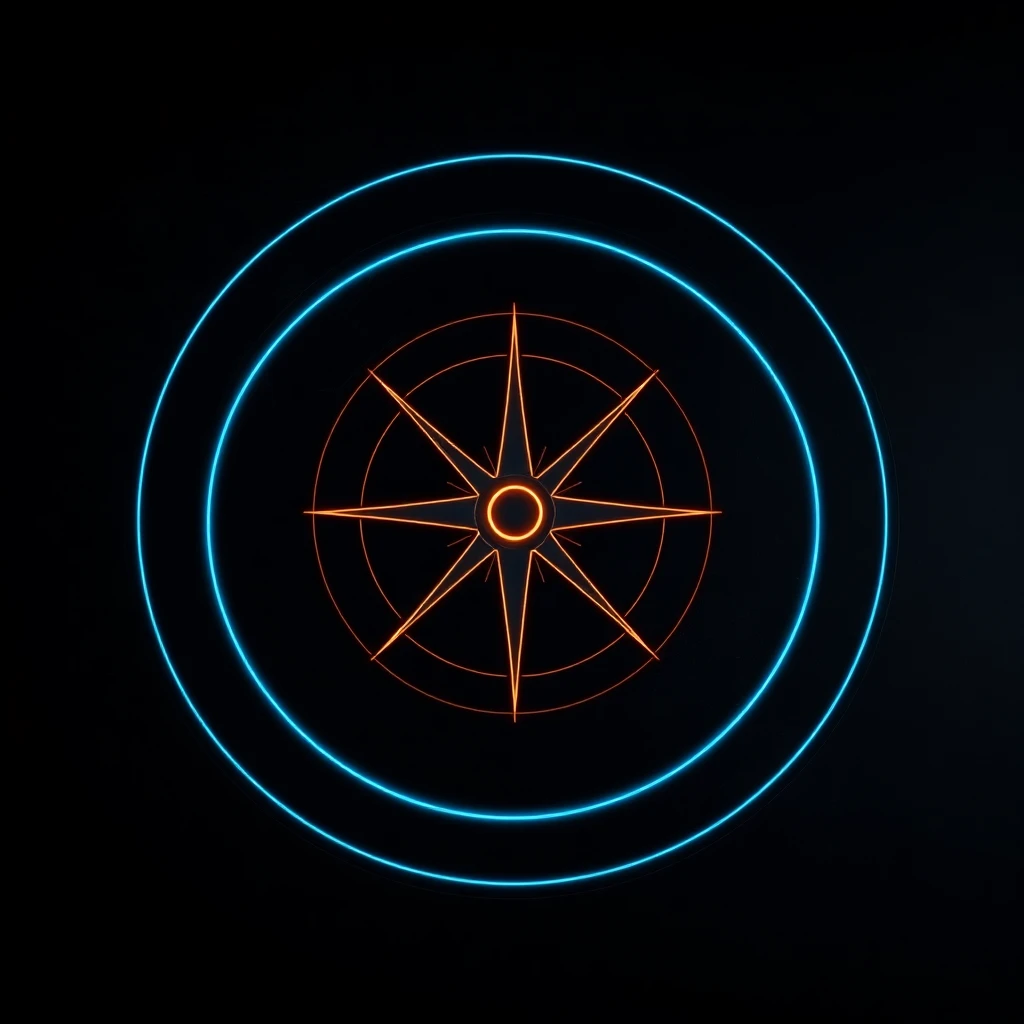
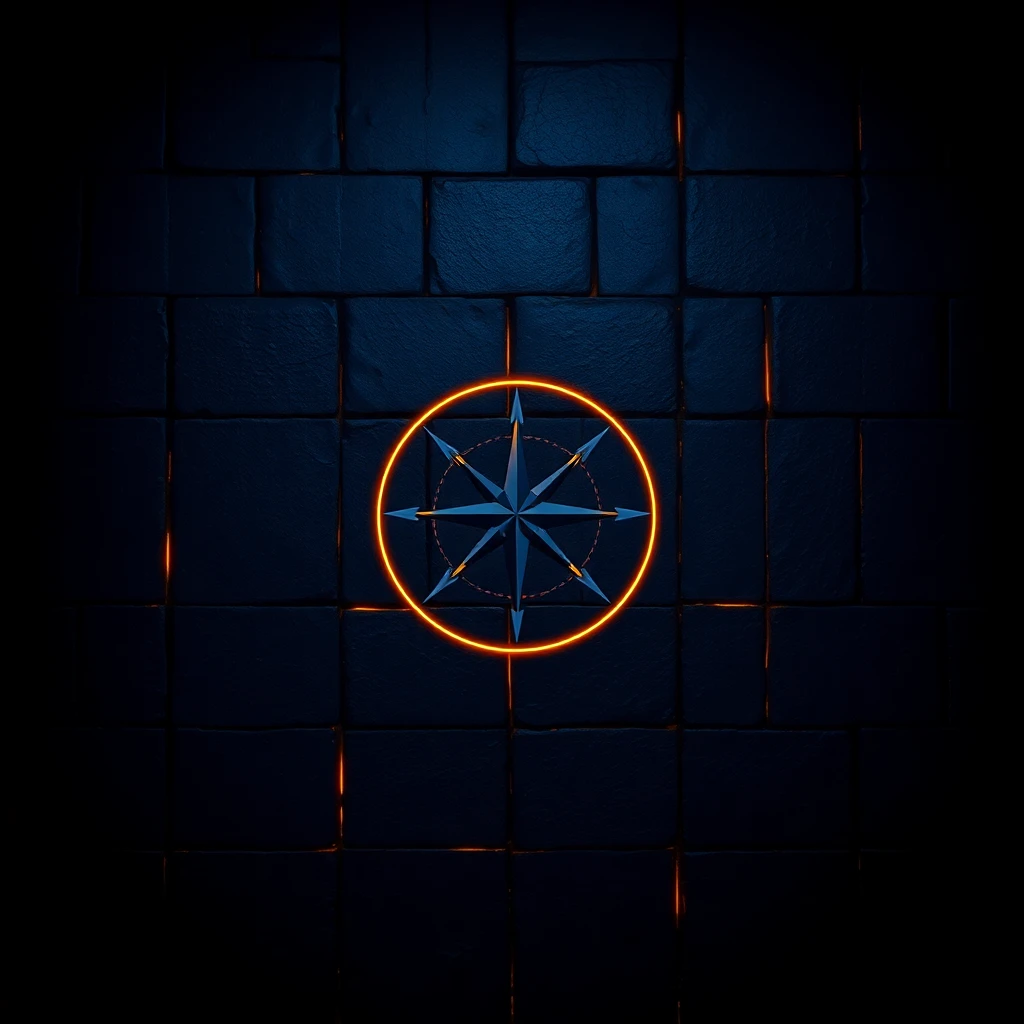
Room masking: dressed-stone shell + 3-layer Mug door + hanging sign
- Shared dressed-stone wall.webp on all 4 walls (no pillars); humble stone
  floor + ceiling so the room reads as one continuous space.
- Mug door rebuilt as 3 layers: fixed stone frame IN FRONT (clip-path arch
  hole, lip overlaps leaf = recessed), oak leaf swings inside, tavern beyond
  glows through on open. Fixes the cutout look (frame was behind the leaf).
- Hanging 'Kindled Mug' sign above the door; removed on-door text + the
  Ather-Games header. Frame edge feathered, orange glow calmed.
- gen_room.py: wall/floor/ceiling/mug-frame/mug-leaf/mug-beyond/mug-sign briefs.
- /room ?wall=N deep-link for headless screenshot self-verify.

diff --git a/src/app/room/page.tsx b/src/app/room/page.tsx
@@ -54,7 +54,12 @@ type Phase = "room" | "approach" | "open" | "through";
 
 export default function RoomPrototype() {
   const router = useRouter();
-  const [face, setFace] = useState(0);
+  // ?wall=N deep-links a faced wall (also lets headless screenshots target a wall with no turn animation)
+  const [face, setFace] = useState(() => {
+    if (typeof window === "undefined") return 0;
+    const w = new URLSearchParams(window.location.search).get("wall");
+    return w !== null && !Number.isNaN(Number(w)) ? Number(w) : 0;
+  });
   const [phase, setPhase] = useState<Phase>("room");
   const [fit, setFit] = useState(1); // viewport scale (contain)
   const [muted, setMuted] = useState(false);
@@ -270,6 +275,11 @@ export default function RoomPrototype() {
                     top: -WALL_H / 2,
                     transform: `rotateY(${-i * STEP}deg) translateZ(${-ROOM_R}px)`,
                     backfaceVisibility: "hidden",
+                    // shared dressed-stone wall — same surface on all four sides so the
+                    // room reads continuous; features mount on top of it.
+                    backgroundColor: "#08080d",
+                    backgroundImage: "url(/room/wall.webp)",
+                    backgroundSize: "100% 100%",
                   }}
                 >
                   {w.id === "magii" ? (
@@ -289,11 +299,6 @@ export default function RoomPrototype() {
           </div>
         </div>
       </div>
-
-      {/* ── flat HUD (doesn't rotate) ── */}
-      <header className="absolute top-6 left-1/2 -translate-x-1/2 z-30 text-center pointer-events-none">
-        <p className="text-[#d4a843] text-xs tracking-[0.5em] uppercase">Ather · Games</p>
-      </header>
 
       {/* music toggle — unlocks on first interaction; this just mutes/unmutes */}
       <button
@@ -390,12 +395,10 @@ function Plane({ axis }: { axis: "floor" | "ceiling" }) {
         top: -depth / 2,
         transform: `rotateX(${90 * sign}deg) translateZ(${WALL_H / 2}px)`,
         backgroundColor: "#08080d",
-        // floor: the generated compass-rose medallion; ceiling: faint grid for now
-        backgroundImage: isFloor
-          ? "url(/room/floor.webp)"
-          : "linear-gradient(rgba(255,255,255,0.05) 1px, transparent 1px)," +
-            "linear-gradient(90deg, rgba(255,255,255,0.05) 1px, transparent 1px)",
-        backgroundSize: isFloor ? "100% 100%" : "60px 60px",
+        // floor: dressed-stone w/ inlaid compass medallion; ceiling: dark timber beams.
+        // both humble dark stone to match the walls and recede (they're grazed by the camera).
+        backgroundImage: isFloor ? "url(/room/floor.webp)" : "url(/room/ceiling.webp)",
+        backgroundSize: "100% 100%",
         WebkitMaskImage: "radial-gradient(ellipse at 50% 50%, #000 25%, transparent 75%)",
         maskImage: "radial-gradient(ellipse at 50% 50%, #000 25%, transparent 75%)",
       }}
@@ -474,17 +477,25 @@ function MugDoor({ wall, active, phase, onEnter }: { wall: Wall; active: boolean
         role={armed ? "button" : undefined}
         aria-label={armed ? "Open the door to the Kindled Mug" : undefined}
       >
-        {/* warm room glimpsed BEHIND the door */}
+        {/* warm tavern interior glimpsed BEHIND the door */}
         <div
-          className="absolute inset-0 rounded-t-[140px] overflow-hidden grid place-items-center"
+          className="absolute inset-0 rounded-t-[140px] overflow-hidden"
           style={{
-            background: "radial-gradient(ellipse at 50% 35%, #f0c46a 0%, #c8842f 38%, #5a2e12 75%, #1a0d06 100%)",
+            backgroundImage: "url(/room/mug-beyond.webp)",
+            backgroundSize: "cover",
+            backgroundPosition: "center",
+            backgroundColor: "#1a0d06",
           }}
-        >
-          <span className="text-6xl mb-6" style={{ color: "#3a1d0a", opacity: opening ? 1 : 0.0, transition: "opacity 300ms ease" }}>
-            {wall.glyph}
-          </span>
-        </div>
+        />
+        {/* firelight warming when the door is open */}
+        <div
+          className="pointer-events-none absolute inset-0 rounded-t-[140px]"
+          style={{
+            background: "radial-gradient(ellipse at 50% 60%, rgba(240,180,90,0.35), transparent 70%)",
+            opacity: opening ? 1 : 0,
+            transition: "opacity 300ms ease",
+          }}
+        />
 
         {/* the door leaf (swings inward on its left hinge) */}
         <div
@@ -494,7 +505,10 @@ function MugDoor({ wall, active, phase, onEnter }: { wall: Wall; active: boolean
             transformStyle: "preserve-3d",
             transform: opening ? "rotateY(-108deg)" : "rotateY(0deg)",
             transition: `transform ${DOOR_MS}ms cubic-bezier(0.4, 0.0, 0.2, 1)`,
-            background: "linear-gradient(150deg, #2a1c12, #16100a)",
+            backgroundImage: "url(/room/mug-leaf.webp)",
+            backgroundSize: "cover",
+            backgroundPosition: "center",
+            backgroundColor: "#16100a",
             borderColor: active ? "color-mix(in srgb, #d4a843 45%, transparent)" : "rgba(255,255,255,0.08)",
             boxShadow: active ? "0 0 50px -16px #d4a843, inset 0 0 50px rgba(0,0,0,0.6)" : "inset 0 0 40px rgba(0,0,0,0.5)",
             backfaceVisibility: "hidden",
@@ -504,16 +518,63 @@ function MugDoor({ wall, active, phase, onEnter }: { wall: Wall; active: boolean
           {armed && (
             <div className="pointer-events-none absolute inset-0 rounded-t-[140px] opacity-0 transition-opacity duration-200 group-hover/door:opacity-100" style={{ boxShadow: "0 0 70px -10px #d4a843, inset 0 0 60px rgba(212,168,67,0.12)" }} />
           )}
-          {/* plank seams + handle */}
-          <div className="absolute inset-3 rounded-t-[120px] border border-[#d4a843]/15" />
-          <div className="absolute right-5 top-1/2 -translate-y-1/2 w-2 h-7 rounded-full bg-[#d4a843]/70" />
-          <div className="relative" style={{ opacity: active ? 1 : 0.5, transition: "opacity 320ms ease" }}>
-            <span className="block text-6xl mb-3" style={{ color: wall.accent }}>{wall.glyph}</span>
-            <h2 className="text-3xl tracking-[0.3em] uppercase" style={{ fontFamily: "Cormorant Garamond, Georgia, serif" }}>
-              {wall.label}
-            </h2>
-            <p className="mt-2 text-[10px] text-[#8a879a] tracking-[0.3em] uppercase">{wall.tagline}</p>
-          </div>
+        </div>
+
+        {/* FIXED stone frame — IN FRONT, clipped to a ring (arched hole) so the leaf shows
+            through and the stone lip overlaps the door edges = recessed look. Does NOT swing. */}
+        <div
+          className="pointer-events-none absolute"
+          style={{
+            width: 480,
+            height: 720,
+            left: "50%",
+            top: "50%",
+            transform: "translate(-50%, -50%)",
+            backgroundImage: "url(/room/mug-frame.webp)",
+            backgroundSize: "100% 100%",
+            clipPath: "path(evenodd, 'M0,0 H480 V720 H0 Z M144,641 V281 Q144,150 240,150 Q334,150 334,281 V641 Z')",
+            WebkitClipPath: "path(evenodd, 'M0,0 H480 V720 H0 Z M144,641 V281 Q144,150 240,150 Q334,150 334,281 V641 Z')",
+            // feather the outer edge so the frame's stone panel melts into the wall (no hard rectangle seam)
+            maskImage: "radial-gradient(ellipse 82% 86% at 50% 47%, #000 60%, transparent 100%)",
+            WebkitMaskImage: "radial-gradient(ellipse 82% 86% at 50% 47%, #000 60%, transparent 100%)",
+            // calm the hot orange a touch so it sits with the gold mortar seams
+            filter: active ? "saturate(0.82)" : "brightness(0.5) saturate(0.68)",
+            transition: "filter 320ms ease",
+          }}
+        />
+      </div>
+
+      {/* hanging tavern sign above the doorway — carries the wall's name */}
+      <div
+        className="pointer-events-none absolute left-1/2 -translate-x-1/2"
+        style={{ top: -8, width: 300, opacity: active ? 1 : 0.55, transition: "opacity 320ms ease" }}
+      >
+        <div style={{ position: "relative", width: 300, height: 200 }}>
+          <div
+            className="absolute inset-0"
+            style={{
+              backgroundImage: "url(/room/mug-sign.webp)",
+              backgroundSize: "contain",
+              backgroundRepeat: "no-repeat",
+              backgroundPosition: "top center",
+              filter: "saturate(0.82)",
+            }}
+          />
+          <span
+            className="absolute left-0 right-0 text-center"
+            style={{
+              top: 84,
+              fontFamily: "Cormorant Garamond, Georgia, serif",
+              color: "#e8c887",
+              fontSize: 20,
+              fontWeight: 600,
+              letterSpacing: "0.16em",
+              textTransform: "uppercase",
+              textShadow: "0 1px 6px rgba(0,0,0,0.95)",
+            }}
+          >
+            {wall.label}
+          </span>
         </div>
       </div>
 

diff --git a/scripts/gen_room.py b/scripts/gen_room.py
@@ -19,12 +19,67 @@ STYLE = ("vector neon glow line-art on a near-black background, Atari and CRT ve
 
 # (subject, aspect_ratio)
 ROOM = {
+    "wall": (
+        "head-on front elevation of a wall built entirely of dark grey dressed-stone blocks, "
+        "even stone masonry texture covering the entire surface uniformly, thin seams of soft "
+        "golden-yellow and faint cyan light glowing in the mortar gaps between the blocks like a "
+        "quiet magical circuit, gentle moody ambient lighting, golden amber tones, deep blue-black "
+        "shadows, even and uniform across the whole wall, flat straight-on architectural elevation, "
+        "no columns, no pillars, no pilasters, no perspective, no floor, no ceiling, no doorway, "
+        "no opening, no door, no window, no furniture, no people",
+        "3:2",
+    ),
+    "mug-sign": (
+        "a tavern hanging sign, a blank dark wooden board with a carved raised border and rounded "
+        "corners, hanging from an ornate wrought-iron bracket by two short iron chains, warm amber "
+        "rim light glowing along the board edges, dark and moody, straight-on front view, the board "
+        "surface is completely empty blank smooth wood with no text and no letters and no symbols, "
+        "centered, dark background",
+        "3:2",
+    ),
     "floor": (
-        "top-down overhead view of a dark polished obsidian floor with a glowing inlaid "
-        "compass rose at the exact center, concentric luminous rings radiating outward, thin "
-        "radial spoke lines reaching the edges, a small glowing emblem at the hub, faint warm "
-        "amber and cool cyan light seams on near-black stone, perfectly symmetrical and centered, "
-        "flat overhead orthographic, no perspective, no horizon",
+        "top-down overhead view of a dark stone flagstone floor, large flat paving slabs of "
+        "dark blue-grey dressed stone, very dark and low-contrast, thin faint golden light seams "
+        "glowing in the narrow gaps between the slabs, subtle and moody, fading to near-black, "
+        "seamless even masonry texture, flat overhead orthographic top-down, no perspective, "
+        "no horizon, no compass, no emblem, no medallion, no center decoration",
+        "1:1",
+    ),
+    "ceiling": (
+        "overhead view looking straight up at a dark tavern ceiling, heavy dark timber beams "
+        "crossing over dark stone, very dark and low-contrast, faint warm amber glow seeping "
+        "between the beams, moody, fading to near-black, seamless even texture, flat orthographic "
+        "straight-up view, no perspective, no hanging lights, no chandelier, no fixtures",
+        "1:1",
+    ),
+    "mug-leaf": (
+        "head-on front view of ONLY a wooden door panel, vertical medium-brown oak planks with "
+        "clearly visible wood grain, warmly lit so the wood reads, two horizontal dark iron "
+        "reinforcing bands, a round iron ring handle in the center, rounded arched top edge, the "
+        "door panel fills the entire image edge to edge with no gap and no border, soft warm amber "
+        "firelight on the wood, brown wood NOT black NOT red, straight-on flat even lighting, "
+        "no wall, no stone, no frame, no archway, no surround, no background, no people",
+        "2:3",
+    ),
+    "mug-frame": (
+        "head-on front view of a thick ornate doorway archway frame carved from dark dressed stone, "
+        "warm golden glowing seams running through the stone, a tall rounded arched opening in the "
+        "center, heavy carved stone surround on the left right and top, symmetrical, straight-on flat "
+        "architectural elevation, the center opening is solid black and empty, no door, no people, no text",
+        "2:3",
+    ),
+    "mug-beyond": (
+        "warm cozy tavern interior seen from a doorway, a glowing stone hearth fire, wooden tables "
+        "and benches, hanging iron lanterns with warm flames, deep golden amber firelight filling "
+        "the room, inviting and atmospheric, soft warm haze, dark corners, straight-on view into the "
+        "room, gentle depth, no people, no text",
+        "2:3",
+    ),
+    # the old compass-rose floor — repurpose as a flat-on emblem later, NOT as ground
+    "compass": (
+        "a glowing inlaid compass rose emblem on near-black stone, concentric luminous rings, "
+        "thin radial spoke lines, a small glowing emblem at the hub, faint warm amber and cool "
+        "cyan light, perfectly symmetrical and centered, flat overhead orthographic, no perspective",
         "1:1",
     ),
 }

diff --git a/ROOM_DESIGN.md b/ROOM_DESIGN.md
@@ -117,3 +117,22 @@ top-down texture; the CSS rotation supplies the perspective. Do NOT bake perspec
 
 **Order (incremental, verify each):** floor + ceiling (sets room-shell mood) → Mug → Arcade → Shimmer
 → Desk character. Keep the CSS stand-ins as fallback until each surface's art lands.
+
+## MASKING PHASE — PROGRESS (2026-06-20 eve)
+- ✅ **Shell:** `wall.webp` (dressed stone, NO pillars — Alex cut them), `floor.webp` (humble stone + inlaid
+  compass), `ceiling.webp` (dark beams). All 4 walls share `wall.webp` → reads as one room.
+- ✅ **Mug door — 3-layer pattern (REUSE THIS):**
+  1. `mug-beyond.webp` tavern interior (back, fixed).
+  2. `mug-leaf.webp` oak door panel (mid, SWINGS on left hinge).
+  3. `mug-frame.webp` stone arch **IN FRONT**, `clip-path: path(evenodd,...)` cuts the arch hole so the leaf
+     shows through and the stone lip overlaps the door edges = **recessed, not a cutout.**
+  - **KEY LESSON (Alex caught it):** frame BEHIND the leaf → door looks like a sticker pasted on the frame.
+    Frame must be IN FRONT with a clipped transparent hole. FLUX has no alpha, but the frame's hole shape is
+    defined in CSS (the clip-path), so no bg-removal needed.
+  - Outer frame edge feathered with a radial `mask-image` (hides the rect panel seam); orange glow calmed
+    with `filter: saturate(0.82)`. Hanging `mug-sign.webp` + CSS text carries the name above the door.
+- **Tooling:** `?wall=N` deep-link + server headless chromium screenshot (see SHIMMER_SESSION). Self-verify composites.
+- **FLUX-schnell gotcha:** ignores negative prompts, skews glow RED. Lean into orange as firelight for the Mug;
+  push the wanted palette in the POSITIVE prompt for the others.
+- **DEFERRED (own session):** the `/room`→`/magii` route transition — current /magii page doesn't fit the entryway.
+- ⏳ NEXT: Arcade arch, Shimmer screen, Desk — same 3-layer frame+beyond(+leaf) pattern.